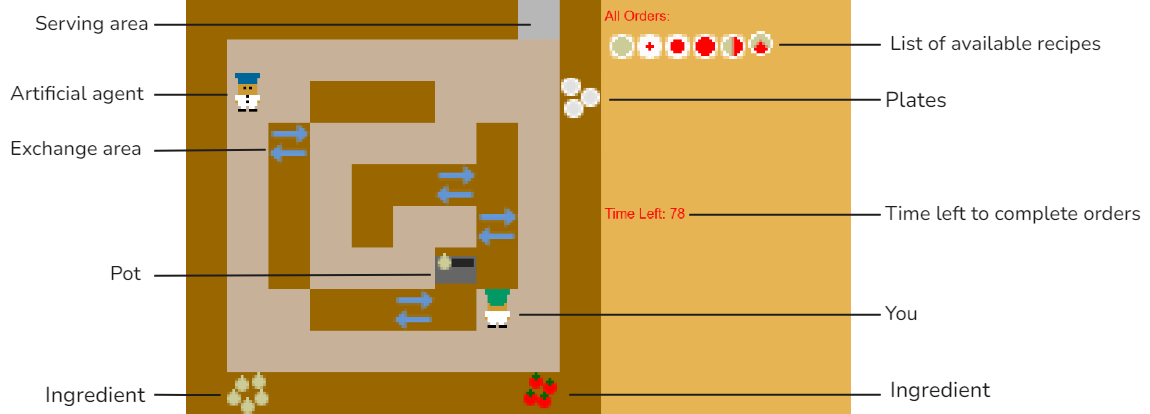
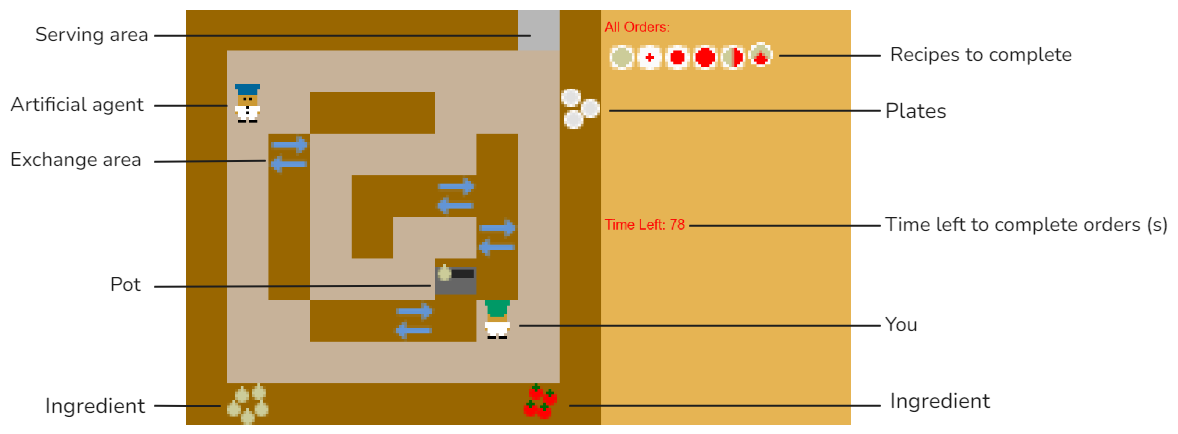
tutorial text update

Changed region(s): [[0.0, 0.0, 1.0, 1.0]]

diff --git a/static/templates/instructions_recipe.html b/static/templates/instructions_recipe.html
@@ -53,22 +53,29 @@
     </div>
 
     <section class="card">
-      <p>Hello! Welcome to this video game all about... cooking! In this experiment you will play a chef in a restaurant specialising in soups!</p>
+      <p>Hello! Welcome to this video game all about... cooking! In this experiment you will play as a chef in a restaurant specialized in soups!</p>
     </section>
 
     <section class="card">
-      <h3>Layouts</h3>
-      <div class="center">
-        <p>This is what your kitchen (one level of the game) looks like:</p>
-        <figure>
-          <img src="static/images/basic_map_exchange_V2.png" alt="Kitchen layout" style="max-width:500px;">
-        </figure>
-        
-        <p>Here you will interact with several objects:</p>
-        <figure>
-          <img src="static/images/basic_map_exchange_V2_legend.png" alt="Kitchen objects legend" style="max-width:800px;">
-        </figure>
-      </div>
+      <h3>Your Goal</h3>
+      <p>For each game, you will have a list of recipes to make. The goal of the game is to complete all these recipes in the shortest time possible. Please note that you should complete the recipe list as quickly as possible, but in no specific sequence.</p>
+      
+      <p>the <strong>All Orders</strong> list shows which recipes you need to complete: any prepared or served soup which is not on this list will not be counted and it will make you loose time.</p>
+      
+      <p>When a soup is served at the serving counter, it is automatically validated, and disappears from the <strong>All Orders</strong> list of the recipes you have to realize during the game.</p>
+      
+      <p><strong>Your goal</strong> is to make all the recipes in the All Orders lists <strong>AS FAST AS POSSIBLE</strong>.</p>
+      
+      <figure>
+        <img src="static/images/info-panel_recipe.png" alt="Recipe panel" style="max-width:400px;">
+      </figure>
+      
+      <p>In the example above, you have to complete 3 recipes:</p>
+      <ul>
+        <li>tomato + tomato + tomato</li>
+        <li>tomato + onion</li>
+        <li>onion + onion + tomato</li>
+      </ul>
     </section>
 
     <section class="card">
@@ -85,11 +92,11 @@
           <p>You can interact with objects by facing them and pressing <strong>spacebar</strong>. Here are some examples:</p>
           <ul>
             <li>Pick up ingredients (onions or tomatoes) by facing the ingredient area and pressing <strong>spacebar</strong>.</li>
-            <li>If you're holding an ingredient and face an empty counter, pressing <strong>spacebar</strong> puts the item down.</li>
-            <li>Face a pot and press <strong>spacebar</strong> to add an ingredient (if it's not full).</li>
+            <li>If you are holding an ingredient and facing an empty counter, pressing <strong>spacebar</strong> puts the item down.</li>
+            <li>Face a pot and press <strong>spacebar</strong> to add an ingredient (if it is not full).</li>
             <li>Face a non-empty pot while holding nothing and press <strong>spacebar</strong> to begin cooking.</li>
           </ul>
-          <p><u><strong>You cannot occupy the same location as your partner.</strong></u></p>
+          <p><u><strong>You cannot occupy the same location as the artificial agent.</strong></u></p>
         </div>
         
         <div class="flex-item">
@@ -98,8 +105,8 @@
             <img src="static/images/soup.png" alt="Soup cooking" style="max-width:250px;">
           </figure>
           <p>Once an ingredient is in the pot, press <strong>spacebar</strong> to start cooking. A pot can hold up to 3 ingredients.</p>
-          <p>A red number appears over the pot to indicate the cooking time. It counts upwards until the soup is done. Each onion adds {{ onion_time }} and each tomato adds {{ tomato_time }} to the cooking time. Remember that onions award more points than tomatoes but take longer to cook!</p>
-          <p>Once an ingredient is in the pot, you must cook it to remove it — whether or not it matches a valid order. Don't forget to hold a plate to collect the soup!</p>
+          <p>A red number appears over the pot to indicate the cooking time. It counts upwards until the soup is done. Each onion adds {{ onion_time }}s and each tomato adds {{ tomato_time }}s to the cooking time. Remember that onions are worth more points than tomatoes, but take longer to cook!</p>
+          <p>Once an ingredient is in the pot, you must cook it to remove it — whether or not it matches a valid order. Do not forget to hold a plate to collect the soup!</p>
         </div>
       </div>
 
@@ -124,25 +131,18 @@
     </section>
 
     <section class="card">
-      <h3>Your Goal</h3>
-      <p>For each game, you will have a list of recipes to make. The goal of the game is to achieve all these recipes in the shortest possible time. Please note that you should complete the recipe list as quickly as possible, but in no specific sequence.</p>
-      
-      <p>The <strong>All Orders</strong> list shows which recipes you have to realize for the game. This is important because any soup served that is not on this list will not be counted and will just waste your time.</p>
-      
-      <p>When a soup is served at the serving counter, it is automatically validated, and disappears from the <strong>All Orders</strong> list of the recipes you have to realize during the game.</p>
-      
-      <p><strong>Your goal</strong> is to make all the recipes in the "All Orders" list <strong>AS FAST AS POSSIBLE</strong>.</p>
-      
-      <figure>
-        <img src="static/images/info-panel_recipe.png" alt="Recipe panel" style="max-width:400px;">
-      </figure>
-      
-      <p>For example, here you have to make 3 soups:</p>
-      <ul>
-        <li>tomato + tomato + tomato</li>
-        <li>tomato + onion</li>
-        <li>onion + onion + tomato</li>
-      </ul>
+      <h3>Layouts</h3>
+      <div class="center">
+        <p>This is an exemple of what the kitchen (one level of the game) looks like:</p>
+        <figure>
+          <img src="static/images/basic_map_exchange_V2.png" alt="Kitchen layout" style="max-width:500px;">
+        </figure>
+        
+        <p>Here you will interact with several objects:</p>
+        <figure>
+          <img src="static/images/basic_map_exchange_V2_legend.png" alt="Kitchen objects legend" style="max-width:800px;">
+        </figure>
+      </div>
     </section>
 
     <section class="card important">
@@ -153,31 +153,31 @@
       <h3>Questions</h3>
       
       <h5>After each GAME</h5>
-      <p>At the end of each game, you will be asked questions, it is very important that you understand what is asked:</p>
+      <p>At the end of each game, you will be asked 3 questions, it is very important that you understand what is asked:</p>
       
       <p>1) <strong>"How much control did you use?"</strong>: This refers to the actual influence you exerted on what happened. Think about how much of the outcome resulted from your direct actions or commands.</p>
       
-      <p>2) <strong>"How much control did you feel?"</strong>: This measures your subjective experience of control, how much it felt like you were the one guiding what happened.</p>
+      <p>2) <strong>"How much control did you feel?"</strong>: This measures your subjective experience of control, regardless of wether your are in control or not, think about how much did you feel to be the one guiding what happened.</p>
       
       <p>3) <strong>"Who is accountable for this result?"</strong>: Accountability is about who you believe is mainly responsible for the result: you, the team as a whole, or the artificial agent involved.</p>
       
-      <p>Your goal is to complete the requested recipes as quickly as possible. Once the game is complete, you will see how long it took. Then, you'll evaluate how responsible you feel for that outcome.</p>
+  <p>Your goal is to complete the requested recipes as quickly as possible. Once the game is complete, you will see how many points you earned from the served recipes. Then, you will evaluate how responsible you feel for that outcome.</p>
       
       <h5>After each BLOCK of games</h5>
       <p>At the end of each assignment block, you will be asked to complete two questionnaires about the games you have just completed.</p>
       
       <div class="important">
-        <h4 class="center">It is VERY IMPORTANT to answer the questions SERIOUSLY for the experiment to be valid.</h4>
+        <h4 class="center">It is VERY IMPORTANT to answer the questions SERIOUSLY for the experimental session to be valid.</h4>
       </div>
     </section>
 
     <section class="card">
       <h3>Course of the experiment</h3>
       <p>You will start by performing a tutorial to familiarize yourself with the interface.</p>
-      <p>You will start each block with a practice trial to learn how to play with the agent. This trial will look like other trials but we won't use the data collected.</p>
-      <p>Then you will start the experiment where you will complete 3 blocks containing 12 games each.</p>
+  <p>You will start each block with a practice trial to learn how to play with the agent. This trial will look like other trials but we will not use the data collected.</p>
+      <p>During the experiment where you will complete 3 blocks containing 12 games each.</p>
       <p>You will be able to take a small break between each block if you wish.</p>
-      <p>Keep in mind that every survey is meant to be completed in a certain amount of time.</p>
+      <p>Keep in mind that every survey is meant to be completed in a limited amount of time.</p>
     </section>
 
     <section class="card warning">

diff --git a/static/js/graphics.js b/static/js/graphics.js
@@ -1287,7 +1287,7 @@ class OvercookedScene extends Phaser.Scene { // dessine les éléments individue
     }
 
     _drawTimeLeft(time_left, sprites, board_height, board_width) {
-        time_left = "Time Left: "+time_left;
+        time_left = "Time Left : "+time_left+" s";
         //console.log(time_left);
         if (typeof(sprites['time_left']) !== 'undefined') {
             sprites['time_left'].setText(time_left);
